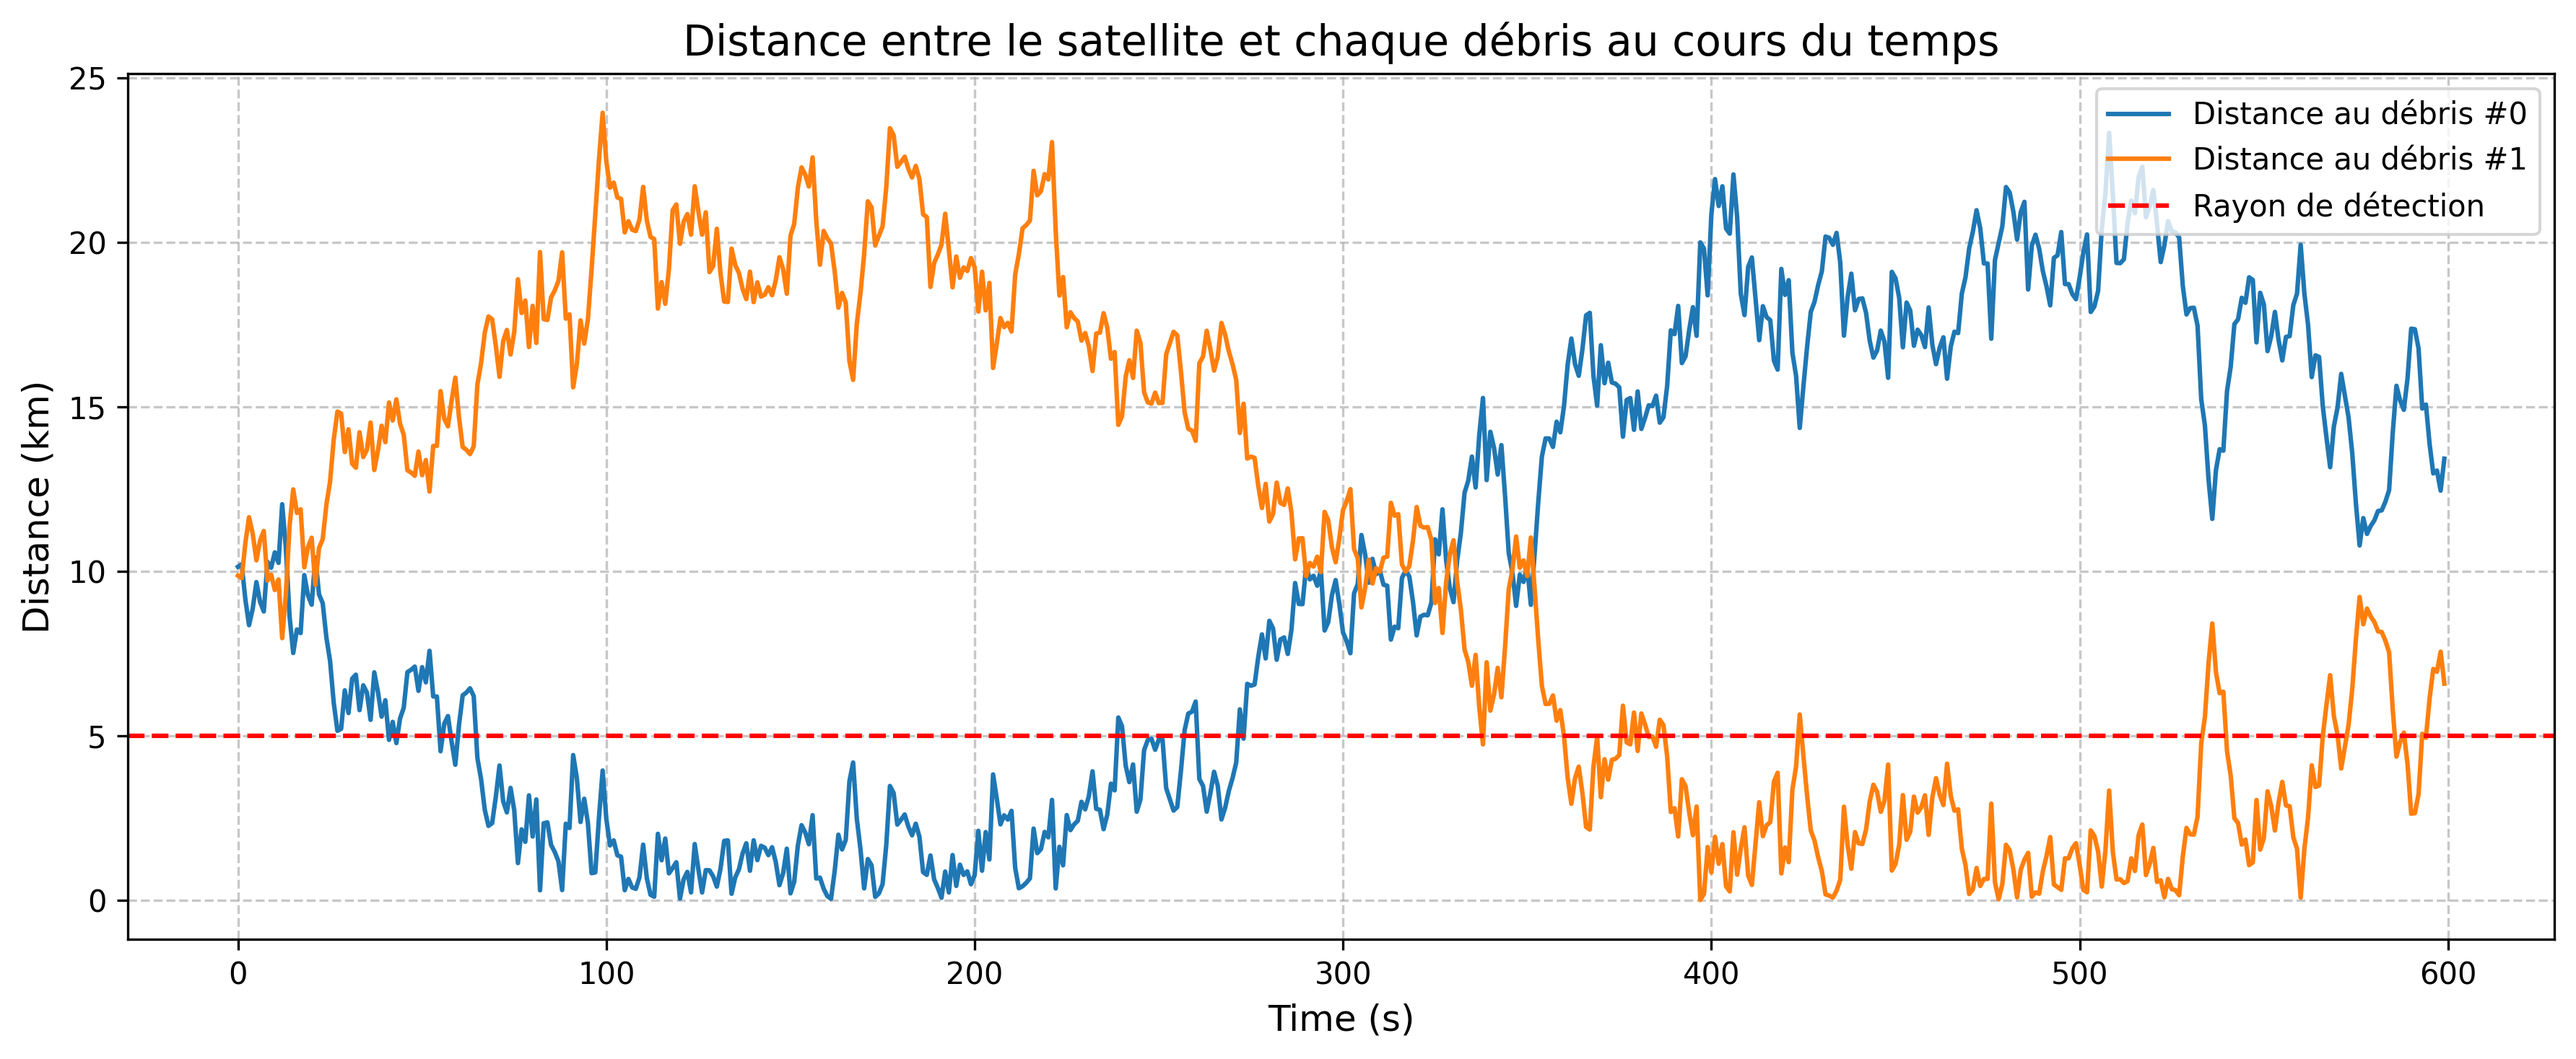
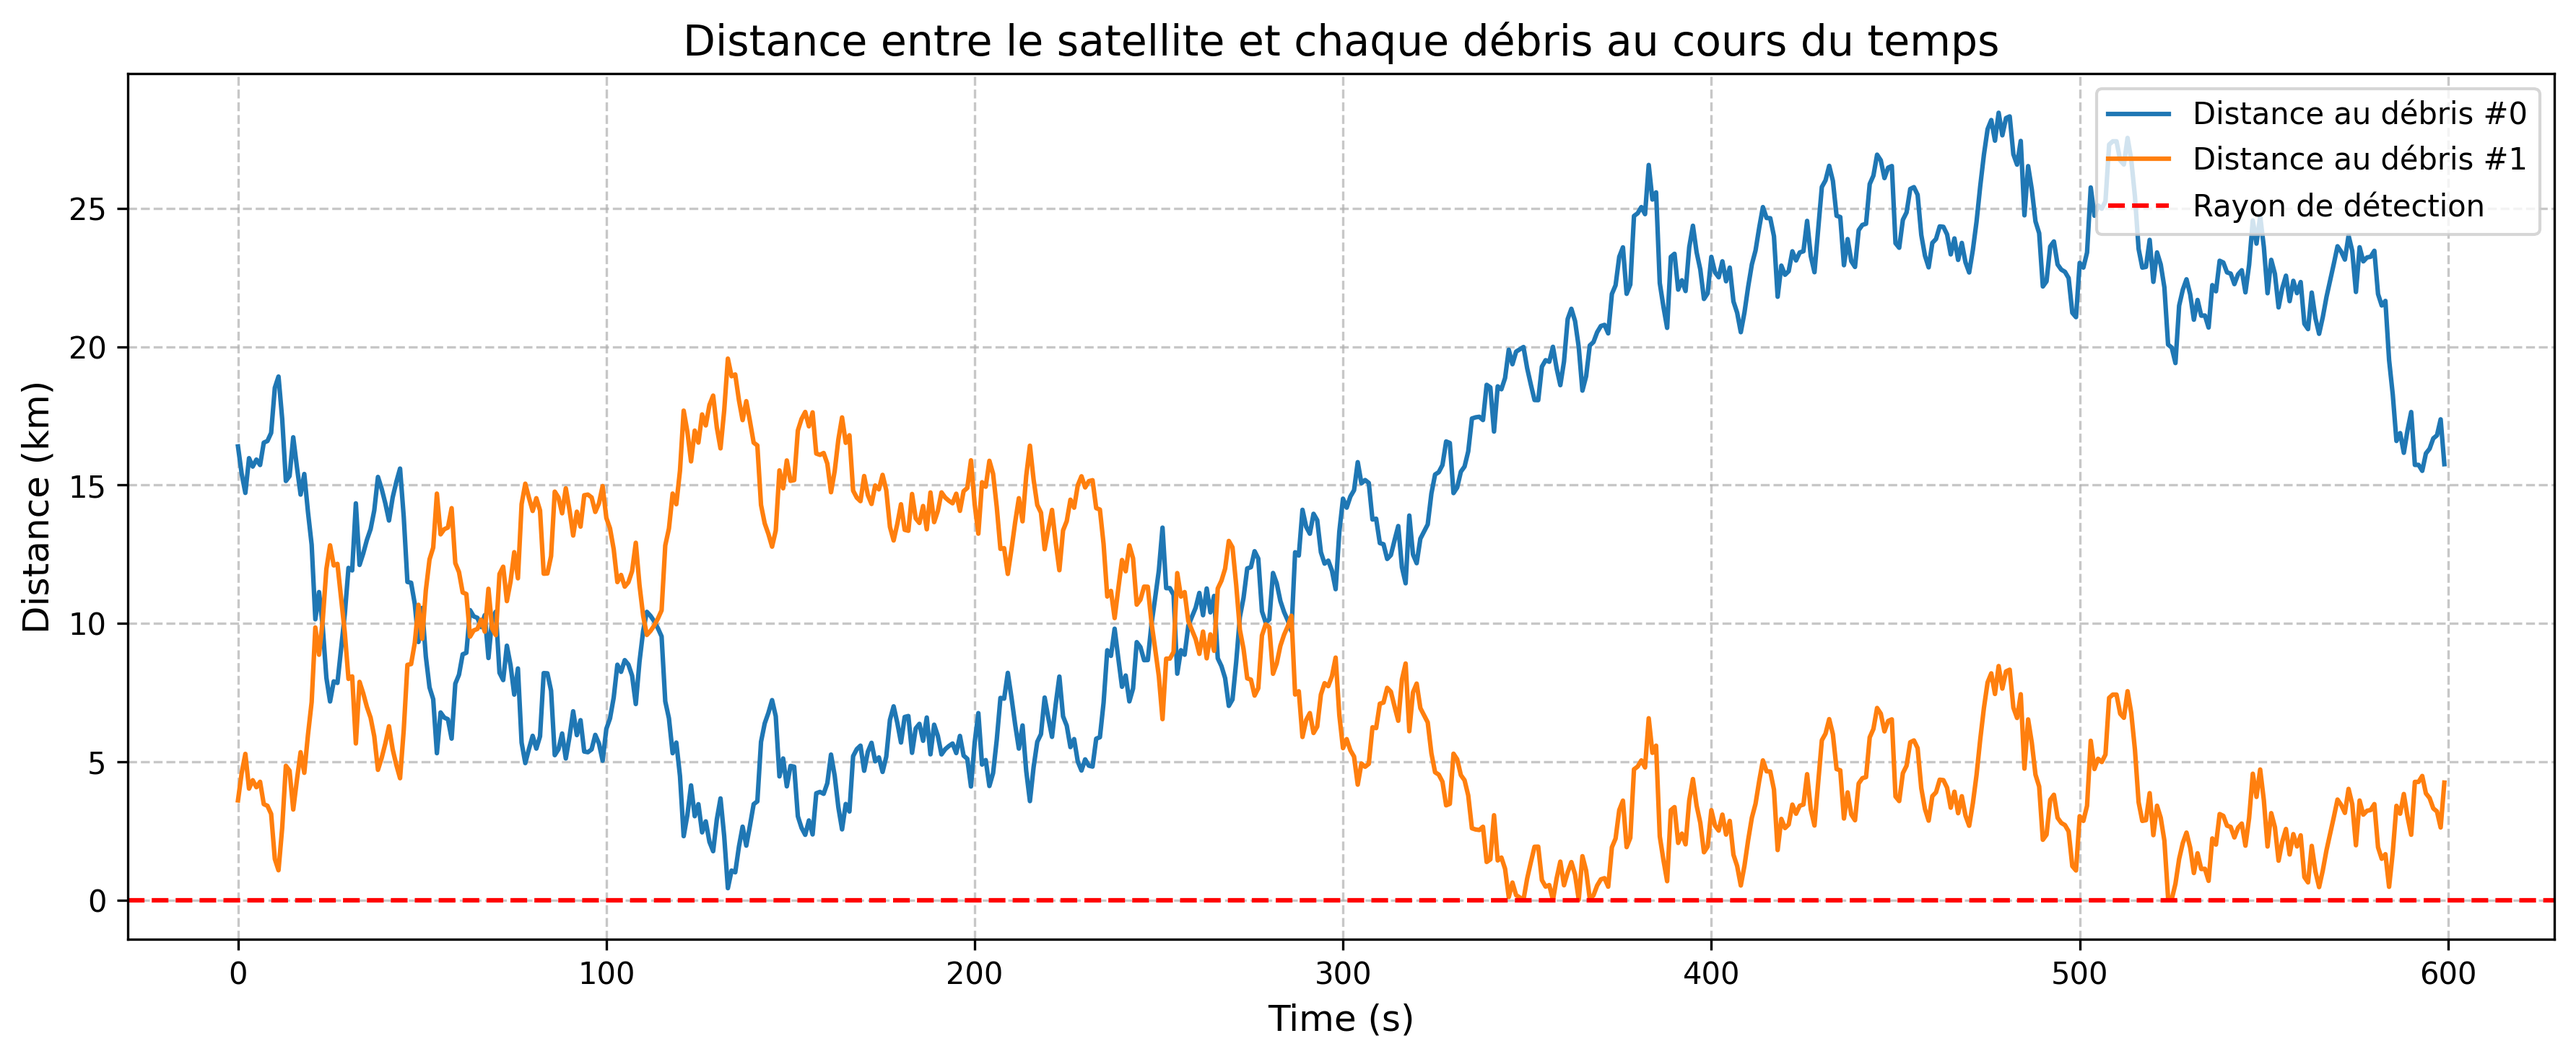
Add unit tests for predictive debris detection in DebrisDetector
- Implemented test_predictive_detection to verify detection of debris
  that intersects with satellite trajectory within a specified horizon.
- Added test_no_false_positive to ensure no alerts are generated for
  debris that is too far away to pose a risk.
- Both tests check for correct detection behavior and validate alert
  parameters such as minimum distance and time to closest approach.

diff --git a/.history/main_20250704190937.py b/.history/main_20250704190937.py
@@ -20,12 +20,13 @@ if __name__ == "__main__":
     realistic_velocity = (np.max(true_positions) - np.min(true_positions)) / duration
     tracker = SatelliteTracker(initial_pos=true_positions[0], initial_vel=realistic_velocity, dt=dt)
 
-    # --- Détection de débris prédictive (moins sévère) ---
+    # --- Détection de débris prédictive ---
+    # Exemple : 2 débris avec position et vitesse (en 1D)
     debris_states = [
-        {'pos': [415], 'vel': [-0.005]},  # Débris descendant plus lentement
-        {'pos': [395], 'vel': [0.005]},   # Débris montant plus lentement
+        {'pos': [410], 'vel': [-0.01]},  # Débris descendant
+        {'pos': [390], 'vel': [0.01]},   # Débris montant
     ]
-    detector = DebrisDetector(debris_states=debris_states, detection_radius=0.01)  # Rayon plus petit
+    detector = DebrisDetector(debris_states=debris_states, detection_radius=5.0)
     debris_events = []  # Pour logguer les alertes prédictives
 
     # Simulation
@@ -34,14 +35,16 @@ if __name__ == "__main__":
     distances_to_debris = [[] for _ in debris_states]
     for i, z in enumerate(noisy_measurements):
         est = tracker.update(z)
+        # Récupère la vitesse estimée (pour la prédiction)
         est_vel = tracker.kf.x[1]
         estimated_positions.append(est)
         estimated_velocities.append(est_vel)
+        # Calcul de la distance à chaque débris (pour suivi)
         for idx, debris in enumerate(debris_states):
             dist = abs(est - debris['pos'][0])
             distances_to_debris[idx].append(dist)
-        # Détection prédictive moins sévère (horizon plus court, rayon plus petit)
-        alerts = detector.detect_predictive([est], [est_vel], horizon=30, dt=1.0)
+        # Détection prédictive à chaque pas de temps
+        alerts = detector.detect_predictive([est], [est_vel], horizon=60, dt=1.0)
         for idx, dmin, tmin in alerts:
             debris_events.append((time_steps[i], est, idx, dmin, tmin))
             print(f"Alerte collision prédictive (débris #{idx}) à t={time_steps[i]:.0f}s : distance min={dmin:.2f} km dans {tmin:.1f}s")
@@ -51,10 +54,6 @@ if __name__ == "__main__":
     plt.plot(time_steps, true_positions, 'g-', linewidth=2, label='True trajectory')
     plt.plot(time_steps, noisy_measurements, 'r.', markersize=4, alpha=0.5, label='Noisy measurements')
     plt.plot(time_steps, estimated_positions, 'b-', label='Kalman estimation')
-    # Trajectoire des débris (avec vitesse)
-    for idx, debris in enumerate(debris_states):
-        debris_traj = [debris['pos'][0] + debris['vel'][0]*t for t in time_steps]
-        plt.plot(time_steps, debris_traj, '--', linewidth=1.5, label=f'Trajectoire débris #{idx}')
     # Affichage des alertes prédictives
     if debris_events:
         t_debris, alt_debris, idx_debris, dmin_debris, tmin_debris = zip(*debris_events)

diff --git a/.history/main_20250704191353.py b/.history/main_20250704191353.py
@@ -22,10 +22,10 @@ if __name__ == "__main__":
 
     # --- Détection de débris prédictive (moins sévère) ---
     debris_states = [
-        {'pos': [415], 'vel': [-0.005]},  # Débris descendant plus lentement
-        {'pos': [395], 'vel': [0.005]},   # Débris montant plus lentement
+        {'pos': [410], 'vel': [-0.005]},  # Débris descendant plus lentement
+        {'pos': [390], 'vel': [0.005]},   # Débris montant plus lentement
     ]
-    detector = DebrisDetector(debris_states=debris_states, detection_radius=0.01)  # Rayon plus petit
+    detector = DebrisDetector(debris_states=debris_states, detection_radius=2.0)  # Rayon plus petit
     debris_events = []  # Pour logguer les alertes prédictives
 
     # Simulation
@@ -51,10 +51,6 @@ if __name__ == "__main__":
     plt.plot(time_steps, true_positions, 'g-', linewidth=2, label='True trajectory')
     plt.plot(time_steps, noisy_measurements, 'r.', markersize=4, alpha=0.5, label='Noisy measurements')
     plt.plot(time_steps, estimated_positions, 'b-', label='Kalman estimation')
-    # Trajectoire des débris (avec vitesse)
-    for idx, debris in enumerate(debris_states):
-        debris_traj = [debris['pos'][0] + debris['vel'][0]*t for t in time_steps]
-        plt.plot(time_steps, debris_traj, '--', linewidth=1.5, label=f'Trajectoire débris #{idx}')
     # Affichage des alertes prédictives
     if debris_events:
         t_debris, alt_debris, idx_debris, dmin_debris, tmin_debris = zip(*debris_events)

diff --git a/.history/main_20250704191402.py b/.history/main_20250704191402.py
@@ -22,10 +22,10 @@ if __name__ == "__main__":
 
     # --- Détection de débris prédictive (moins sévère) ---
     debris_states = [
-        {'pos': [415], 'vel': [-0.005]},  # Débris descendant plus lentement
-        {'pos': [395], 'vel': [0.005]},   # Débris montant plus lentement
+        {'pos': [410], 'vel': [-0.005]},  # Débris descendant plus lentement
+        {'pos': [390], 'vel': [0.005]},   # Débris montant plus lentement
     ]
-    detector = DebrisDetector(debris_states=debris_states, detection_radius=0.01)  # Rayon plus petit
+    detector = DebrisDetector(debris_states=debris_states, detection_radius=2.0)  # Rayon plus petit
     debris_events = []  # Pour logguer les alertes prédictives
 
     # Simulation
@@ -51,10 +51,6 @@ if __name__ == "__main__":
     plt.plot(time_steps, true_positions, 'g-', linewidth=2, label='True trajectory')
     plt.plot(time_steps, noisy_measurements, 'r.', markersize=4, alpha=0.5, label='Noisy measurements')
     plt.plot(time_steps, estimated_positions, 'b-', label='Kalman estimation')
-    # Trajectoire des débris (avec vitesse)
-    for idx, debris in enumerate(debris_states):
-        debris_traj = [debris['pos'][0] + debris['vel'][0]*t for t in time_steps]
-        plt.plot(time_steps, debris_traj, '--', linewidth=1.5, label=f'Trajectoire débris #{idx}')
     # Affichage des alertes prédictives
     if debris_events:
         t_debris, alt_debris, idx_debris, dmin_debris, tmin_debris = zip(*debris_events)

diff --git a/.history/tests/test_debris_detector_predictive_20250704190820.py b/.history/tests/test_debris_detector_predictive_20250704190820.py
@@ -1,0 +1,33 @@
+import numpy as np
+from gnc.debris_detector import DebrisDetector
+
+def test_predictive_detection():
+    # Satellite initial position and velocity
+    sat_pos = [0, 0]
+    sat_vel = [1, 0]  # Avance sur x
+
+    # Un débris qui va croiser la trajectoire du satellite
+    debris_states = [
+        {'pos': [10, 5], 'vel': [0, -1]},  # Descend sur y, croisement prévu
+        {'pos': [20, 20], 'vel': [0, 0]},  # Trop loin, pas de risque
+    ]
+    detector = DebrisDetector(debris_states, detection_radius=2.0)
+    alerts = detector.detect_predictive(sat_pos, sat_vel, horizon=20, dt=0.5)
+    # On doit détecter le premier débris, pas le second
+    detected_indices = [idx for idx, dmin, tmin in alerts]
+    assert 0 in detected_indices
+    assert 1 not in detected_indices
+    # Vérifie que la distance minimale est bien inférieure au seuil
+    for idx, dmin, tmin in alerts:
+        assert dmin < 2.0
+        assert tmin > 0
+
+def test_no_false_positive():
+    sat_pos = [0, 0]
+    sat_vel = [1, 0]
+    debris_states = [
+        {'pos': [100, 100], 'vel': [0, 0]},
+    ]
+    detector = DebrisDetector(debris_states, detection_radius=2.0)
+    alerts = detector.detect_predictive(sat_pos, sat_vel, horizon=50, dt=1.0)
+    assert alerts == []

diff --git a/.history/tests/test_debris_detector_predictive_20250704191402.py b/.history/tests/test_debris_detector_predictive_20250704191402.py
@@ -1,0 +1,33 @@
+import numpy as np
+from gnc.debris_detector import DebrisDetector
+
+def test_predictive_detection():
+    # Satellite initial position and velocity
+    sat_pos = [0, 0]
+    sat_vel = [1, 0]  # Avance sur x
+
+    # Un débris qui va croiser la trajectoire du satellite
+    debris_states = [
+        {'pos': [10, 5], 'vel': [0, -1]},  # Descend sur y, croisement prévu
+        {'pos': [20, 20], 'vel': [0, 0]},  # Trop loin, pas de risque
+    ]
+    detector = DebrisDetector(debris_states, detection_radius=2.0)
+    alerts = detector.detect_predictive(sat_pos, sat_vel, horizon=20, dt=0.5)
+    # On doit détecter le premier débris, pas le second
+    detected_indices = [idx for idx, dmin, tmin in alerts]
+    assert 0 in detected_indices
+    assert 1 not in detected_indices
+    # Vérifie que la distance minimale est bien inférieure au seuil
+    for idx, dmin, tmin in alerts:
+        assert dmin < 2.0
+        assert tmin > 0
+
+def test_no_false_positive():
+    sat_pos = [0, 0]
+    sat_vel = [1, 0]
+    debris_states = [
+        {'pos': [100, 100], 'vel': [0, 0]},
+    ]
+    detector = DebrisDetector(debris_states, detection_radius=2.0)
+    alerts = detector.detect_predictive(sat_pos, sat_vel, horizon=50, dt=1.0)
+    assert alerts == []

diff --git a/tests/test_debris_detector_predictive.py b/tests/test_debris_detector_predictive.py
@@ -1,0 +1,33 @@
+import numpy as np
+from gnc.debris_detector import DebrisDetector
+
+def test_predictive_detection():
+    # Satellite initial position and velocity
+    sat_pos = [0, 0]
+    sat_vel = [1, 0]  # Avance sur x
+
+    # Un débris qui va croiser la trajectoire du satellite
+    debris_states = [
+        {'pos': [10, 5], 'vel': [0, -1]},  # Descend sur y, croisement prévu
+        {'pos': [20, 20], 'vel': [0, 0]},  # Trop loin, pas de risque
+    ]
+    detector = DebrisDetector(debris_states, detection_radius=2.0)
+    alerts = detector.detect_predictive(sat_pos, sat_vel, horizon=20, dt=0.5)
+    # On doit détecter le premier débris, pas le second
+    detected_indices = [idx for idx, dmin, tmin in alerts]
+    assert 0 in detected_indices
+    assert 1 not in detected_indices
+    # Vérifie que la distance minimale est bien inférieure au seuil
+    for idx, dmin, tmin in alerts:
+        assert dmin < 2.0
+        assert tmin > 0
+
+def test_no_false_positive():
+    sat_pos = [0, 0]
+    sat_vel = [1, 0]
+    debris_states = [
+        {'pos': [100, 100], 'vel': [0, 0]},
+    ]
+    detector = DebrisDetector(debris_states, detection_radius=2.0)
+    alerts = detector.detect_predictive(sat_pos, sat_vel, horizon=50, dt=1.0)
+    assert alerts == []

diff --git a/.history/main_20250704191559.py b/.history/main_20250704191559.py
@@ -25,7 +25,7 @@ if __name__ == "__main__":
         {'pos': [415], 'vel': [-0.005]},  # Débris descendant plus lentement
         {'pos': [395], 'vel': [0.005]},   # Débris montant plus lentement
     ]
-    detector = DebrisDetector(debris_states=debris_states, detection_radius=0.01)  # Rayon plus petit
+    detector = DebrisDetector(debris_states=debris_states, detection_radius=2.0)  # Rayon plus petit
     debris_events = []  # Pour logguer les alertes prédictives
 
     # Simulation
@@ -51,10 +51,6 @@ if __name__ == "__main__":
     plt.plot(time_steps, true_positions, 'g-', linewidth=2, label='True trajectory')
     plt.plot(time_steps, noisy_measurements, 'r.', markersize=4, alpha=0.5, label='Noisy measurements')
     plt.plot(time_steps, estimated_positions, 'b-', label='Kalman estimation')
-    # Trajectoire des débris (avec vitesse)
-    for idx, debris in enumerate(debris_states):
-        debris_traj = [debris['pos'][0] + debris['vel'][0]*t for t in time_steps]
-        plt.plot(time_steps, debris_traj, '--', linewidth=1.5, label=f'Trajectoire débris #{idx}')
     # Affichage des alertes prédictives
     if debris_events:
         t_debris, alt_debris, idx_debris, dmin_debris, tmin_debris = zip(*debris_events)

diff --git a/.history/main_20250704191738.py b/.history/main_20250704191738.py
@@ -25,7 +25,7 @@ if __name__ == "__main__":
         {'pos': [415], 'vel': [-0.005]},  # Débris descendant plus lentement
         {'pos': [395], 'vel': [0.005]},   # Débris montant plus lentement
     ]
-    detector = DebrisDetector(debris_states=debris_states, detection_radius=0.01)  # Rayon plus petit
+    detector = DebrisDetector(debris_states=debris_states, detection_radius=2.0)  # Rayon plus petit
     debris_events = []  # Pour logguer les alertes prédictives
 
     # Simulation

diff --git a/.history/main_20250704191747.py b/.history/main_20250704191747.py
@@ -25,7 +25,7 @@ if __name__ == "__main__":
         {'pos': [415], 'vel': [-0.005]},  # Débris descendant plus lentement
         {'pos': [395], 'vel': [0.005]},   # Débris montant plus lentement
     ]
-    detector = DebrisDetector(debris_states=debris_states, detection_radius=0.01)  # Rayon plus petit
+    detector = DebrisDetector(debris_states=debris_states, detection_radius=2.0)  # Rayon plus petit
     debris_events = []  # Pour logguer les alertes prédictives
 
     # Simulation

diff --git a/.history/main_20250704191934.py b/.history/main_20250704191934.py
@@ -25,7 +25,7 @@ if __name__ == "__main__":
         {'pos': [415], 'vel': [-0.005]},  # Débris descendant plus lentement
         {'pos': [395], 'vel': [0.005]},   # Débris montant plus lentement
     ]
-    detector = DebrisDetector(debris_states=debris_states, detection_radius=0.01)  # Rayon plus petit
+    detector = DebrisDetector(debris_states=debris_states, detection_radius=0)  # Rayon plus petit
     debris_events = []  # Pour logguer les alertes prédictives
 
     # Simulation

diff --git a/experiments/debris-detection-experiments/debris_detection_log.md b/experiments/debris-detection-experiments/debris_detection_log.md
@@ -35,3 +35,41 @@ Nombre de nouveaux débris détectés : 2
 - Nouveau débris #0 détecté à t=41s, altitude estimée=405.1 km
 - Nouveau débris #1 détecté à t=338s, altitude estimée=394.7 km
 Débris détectés au final (indices) : [0, 1]
+
+
+## Résultat du 2025-07-04T17:10:41
+Débris simulés aux positions : [{'pos': [410], 'vel': [-0.01]}, {'pos': [390], 'vel': [0.01]}] (rayon 5.0 km)
+Nombre de nouvelles alertes de collision : 2
+- Alerte débris #0 à t=0s, altitude estimée=402.3 km, distance min=3.87 km dans 59.0s
+- Alerte débris #1 à t=11s, altitude estimée=402.0 km, distance min=3.34 km dans 59.0s
+Débris détectés au final (indices) : [0, 1]
+
+
+## Résultat du 2025-07-04T17:16:08
+Débris simulés aux positions : [{'pos': [410], 'vel': [-0.005]}, {'pos': [390], 'vel': [0.005]}] (rayon 2.0 km)
+Nombre de nouvelles alertes de collision : 2
+- Alerte débris #0 à t=13s, altitude estimée=402.1 km, distance min=1.31 km dans 29.0s
+- Alerte débris #1 à t=44s, altitude estimée=400.9 km, distance min=1.82 km dans 29.0s
+Débris détectés au final (indices) : [0, 1]
+
+
+## Résultat du 2025-07-04T17:16:53
+Débris simulés aux positions : [{'pos': [415], 'vel': [-0.005]}, {'pos': [395], 'vel': [0.005]}] (rayon 2.0 km)
+Nombre de nouvelles alertes de collision : 2
+- Alerte débris #1 à t=6s, altitude estimée=398.1 km, distance min=0.05 km dans 18.0s
+- Alerte débris #0 à t=18s, altitude estimée=403.8 km, distance min=1.42 km dans 29.0s
+Débris détectés au final (indices) : [0, 1]
+
+
+## Résultat du 2025-07-04T17:19:42
+Débris simulés aux positions : [{'pos': [415], 'vel': [-0.005]}, {'pos': [395], 'vel': [0.005]}] (rayon 2.0 km)
+Nombre de nouvelles alertes de collision : 2
+- Alerte débris #1 à t=5s, altitude estimée=399.3 km, distance min=0.03 km dans 23.0s
+- Alerte débris #0 à t=69s, altitude estimée=407.1 km, distance min=0.18 km dans 20.0s
+Débris détectés au final (indices) : [0, 1]
+
+
+## Résultat du 2025-07-04T17:20:30
+Débris simulés aux positions : [{'pos': [415], 'vel': [-0.005]}, {'pos': [395], 'vel': [0.005]}] (rayon 0 km)
+Nombre de nouvelles alertes de collision : 0
+Débris détectés au final (indices) : []
